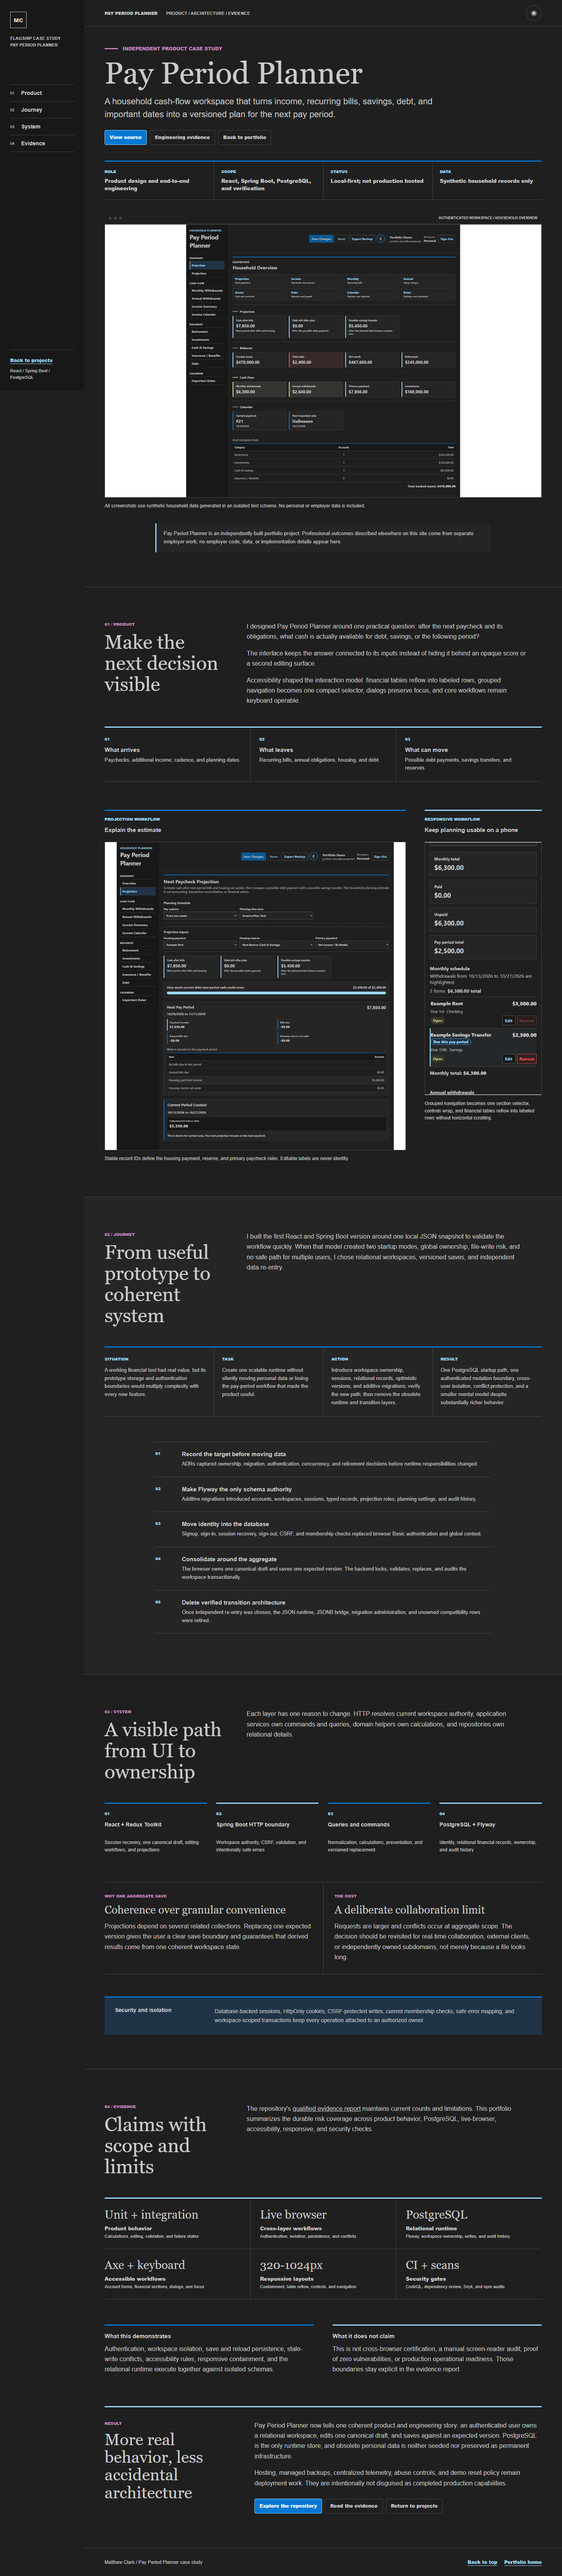
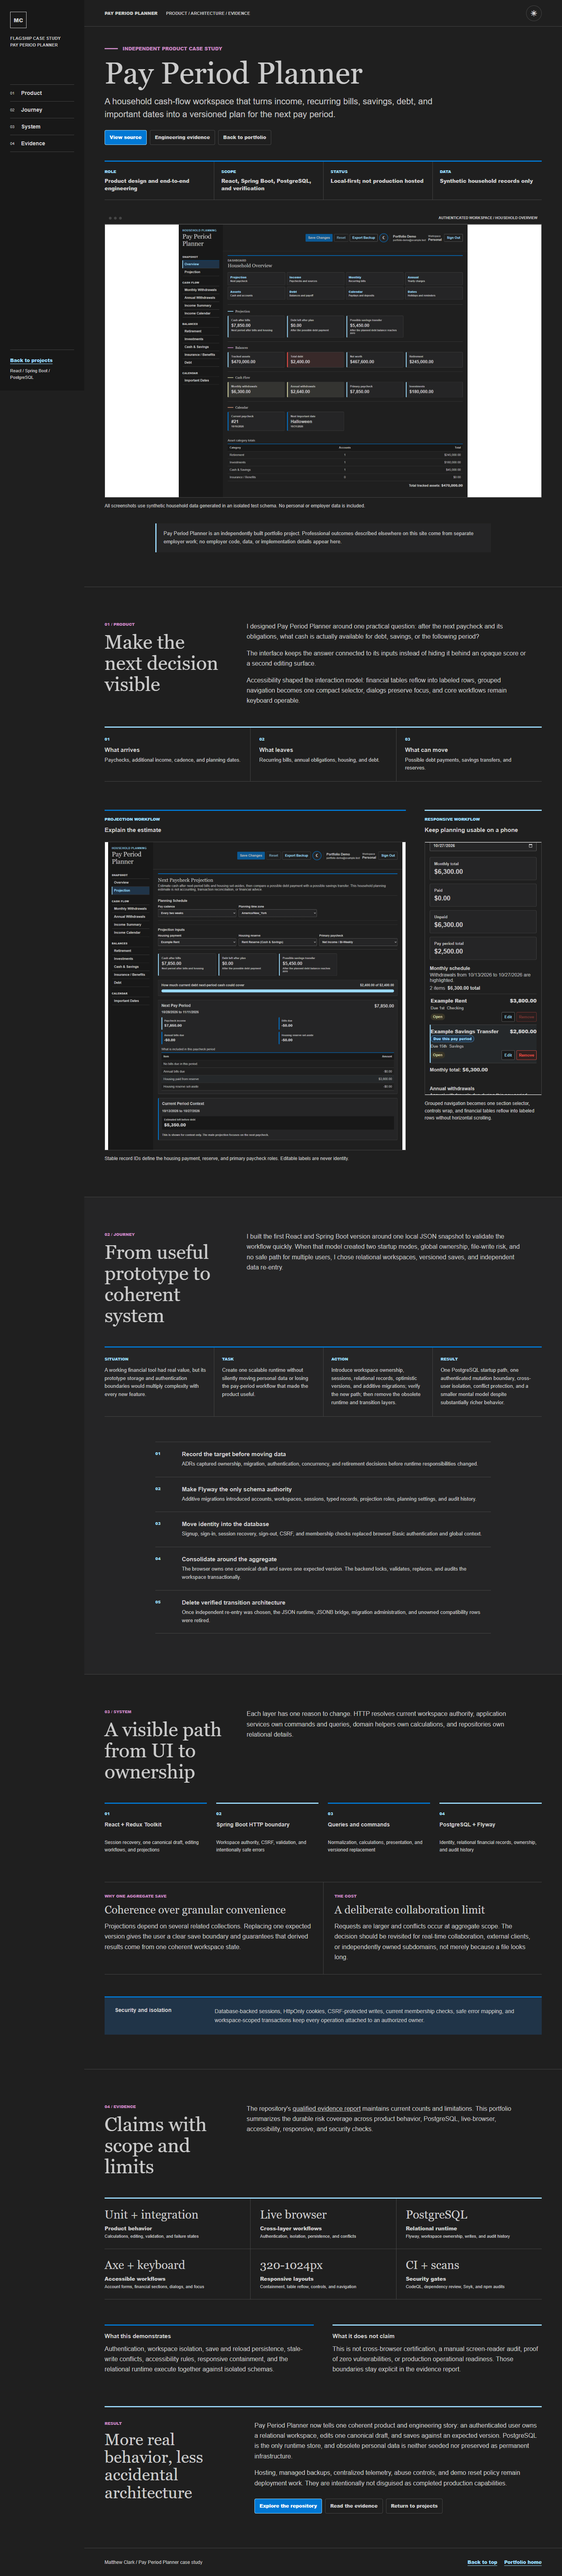
Document shared typography and refresh project evidence (#44)

diff --git a/app/work/pay-period-planner/page.tsx b/app/work/pay-period-planner/page.tsx
@@ -28,7 +28,7 @@ export const metadata: Metadata = {
     description,
     images: [
       {
-        url: `${siteUrl}/images/pay-period-planner-overview.png?v=20261023-blue`,
+        url: `${siteUrl}/images/pay-period-planner-overview.png?v=20261023-type`,
         width: 1440,
         height: 900,
         alt: "Pay Period Planner household overview populated with synthetic data",
@@ -39,7 +39,7 @@ export const metadata: Metadata = {
     card: "summary_large_image",
     title,
     description,
-    images: [`${siteUrl}/images/pay-period-planner-overview.png?v=20261023-blue`],
+    images: [`${siteUrl}/images/pay-period-planner-overview.png?v=20261023-type`],
   },
 };
 
@@ -170,7 +170,7 @@ export default function PayPeriodPlannerCaseStudy() {
             </div>
             <div className="case-study-overview-image">
               <Image
-                src={`${basePath}/images/pay-period-planner-overview.png?v=20261023-blue`}
+                src={`${basePath}/images/pay-period-planner-overview.png?v=20261023-type`}
                 alt="Pay Period Planner household overview with projection, balances, cash flow, and calendar summaries"
                 fill
                 priority
@@ -245,7 +245,7 @@ export default function PayPeriodPlannerCaseStudy() {
                 </div>
                 <div className="case-study-projection-image">
                   <Image
-                    src={`${basePath}/images/pay-period-planner-projection.png?v=20261023-blue`}
+                    src={`${basePath}/images/pay-period-planner-projection.png?v=20261023-type`}
                     alt="Pay Period Planner next-paycheck projection with planning schedule, selected inputs, and possible allocations"
                     fill
                     sizes="(max-width: 760px) 100vw, (max-width: 1200px) 58vw, 760px"
@@ -264,7 +264,7 @@ export default function PayPeriodPlannerCaseStudy() {
                 </div>
                 <div className="case-study-mobile-image">
                   <Image
-                    src={`${basePath}/images/pay-period-planner-mobile.png?v=20261023-blue`}
+                    src={`${basePath}/images/pay-period-planner-mobile.png?v=20261023-type`}
                     alt="Pay Period Planner monthly withdrawals workflow at a 390 pixel mobile viewport"
                     fill
                     sizes="(max-width: 760px) 88vw, 300px"

diff --git a/app/globals.css b/app/globals.css
@@ -1,4 +1,8 @@
 :root {
+  --font-ui: Arial, Helvetica, ui-sans-serif, system-ui, -apple-system, BlinkMacSystemFont, "Segoe UI", sans-serif;
+  --font-display: Georgia, "Times New Roman", serif;
+  --font-code: Consolas, "Courier New", monospace;
+
   color-scheme: light;
   --paper: #ffffff;
   --paper-soft: #F3F3F3;
@@ -60,9 +64,7 @@ body {
   margin: 0;
   background: var(--paper);
   color: var(--ink);
-  font-family:
-    Arial, Helvetica, ui-sans-serif, system-ui, -apple-system, BlinkMacSystemFont,
-    "Segoe UI", sans-serif;
+  font-family: var(--font-ui);
   font-size: 16px;
   letter-spacing: 0;
 }
@@ -312,7 +314,7 @@ html[data-theme="dark"] .theme-icon-sun {
 h1 {
   max-width: 900px;
   margin-bottom: 12px;
-  font-family: Georgia, "Times New Roman", serif;
+  font-family: var(--font-display);
   font-size: 82px;
   font-weight: 500;
   line-height: 0.98;
@@ -418,7 +420,7 @@ h1 {
 .approach h2,
 .about h2,
 .contact h2 {
-  font-family: Georgia, "Times New Roman", serif;
+  font-family: var(--font-display);
   font-weight: 500;
   letter-spacing: 0;
 }
@@ -714,7 +716,7 @@ h1 {
 .impact-facts dt {
   margin-bottom: 14px;
   color: var(--accent-text);
-  font-family: Georgia, "Times New Roman", serif;
+  font-family: var(--font-display);
   font-size: 36px;
   font-weight: 500;
   line-height: 1;
@@ -1454,3 +1456,5 @@ html[data-theme="dark"] .stack-list span:nth-child(3n) { color: var(--syntax-fun
 
 html[data-theme="dark"] .role { color: var(--syntax-keyword); }
 html[data-theme="dark"] .stack-list span:nth-child(4n) { color: var(--syntax-string); }
+
+pre, code, kbd, samp { font-family: var(--font-code); }

diff --git a/app/page.tsx b/app/page.tsx
@@ -251,7 +251,7 @@ export default function Home() {
               </div>
               <div className="project-image">
                 <Image
-                  src={`${basePath}/images/pay-period-planner-overview.png?v=20261023-blue`}
+                  src={`${basePath}/images/pay-period-planner-overview.png?v=20261023-type`}
                   alt="Pay Period Planner household overview with projection, balances, cash flow, and calendar summaries"
                   fill
                   priority
@@ -351,7 +351,7 @@ export default function Home() {
               </div>
               <div className="project-image project-image--contain">
                 <Image
-                  src={`${basePath}/images/dsa-dojo-overview.jpg?v=20261023-blue`}
+                  src={`${basePath}/images/dsa-dojo-overview.jpg?v=20261023-type`}
                   alt="DSA Dojo dark lesson studio with its lesson catalog and Sensei Pip guide"
                   fill
                   sizes="(max-width: 760px) 100vw, (max-width: 1200px) 62vw, 52vw"

diff --git a/app/case-study.css b/app/case-study.css
@@ -138,7 +138,7 @@
 .case-study-section-heading h2,
 .case-study-result h2 {
   margin-bottom: 0;
-  font-family: Georgia, "Times New Roman", serif;
+  font-family: var(--font-display);
   font-size: 50px;
   font-weight: 500;
   line-height: 1.08;
@@ -359,7 +359,7 @@
 
 .architecture-decision h3 {
   margin: 0 0 14px;
-  font-family: Georgia, "Times New Roman", serif;
+  font-family: var(--font-display);
   font-size: 28px;
   font-weight: 500;
   line-height: 1.15;
@@ -415,7 +415,7 @@
 
 .case-study-evidence-grid strong {
   margin-bottom: 10px;
-  font-family: Georgia, "Times New Roman", serif;
+  font-family: var(--font-display);
   font-size: 30px;
   font-weight: 500;
   line-height: 1.1;

diff --git a/docs/visual-system.md b/docs/visual-system.md
@@ -1,0 +1,13 @@
+# Shared visual system
+
+The portfolio, Pay Period Planner and DSA Dojo share a system-font pairing:
+
+- Interface text: Arial, Helvetica and system sans-serif fallbacks.
+- Display headings: Georgia, Times New Roman and serif fallbacks.
+- Code: Consolas, Courier New and monospace fallbacks.
+
+Fonts are supplied by the device; no font service or remote font request is required.
+
+Dark Modern uses #1F1F1F for the canvas, #181818 for side panels, #CCCCCC for body text, #0078D4 for actions and focus, and #9CDCFE for readable blue accents. Yellow #DCDCAA, magenta #C586C0 and salmon #CE9178 distinguish supporting details. Error states use #F85149. Green and teal are not brand or interface accents. Light mode, where supported, keeps neutral surfaces and blue interactions.
+
+Application screenshots are real browser captures. Planner captures use an isolated synthetic workspace. Marketing thumbnails are illustrative and are refreshed when the visible design changes.

diff --git a/README.md b/README.md
@@ -108,3 +108,7 @@ locally managed browser; the preview builder and browser tests both accept it.
 ## Dark theme preview
 
 ![Portfolio homepage in the Dark Modern theme](docs/images/portfolio-dark.png)
+
+## Visual identity
+
+See [the shared visual system](docs/visual-system.md) for the font pairing, Dark Modern palette and screenshot policy.
